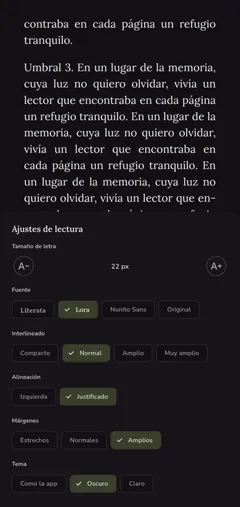
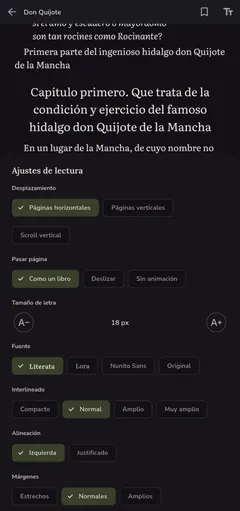
feat(inicio): capturas nuevas del g31 en tema claro y oscuro
- Seis capturas tomadas por adb en Silente 0.1.0 (moto g31), en los
  dos temas, con libros de Gutenberg y una reflexión de ejemplo.
- Cada captura se sirve con <picture>: la variante oscura con
  prefers-color-scheme: dark.
- make_assets.py lee src/capturas/ y permite regenerar solo una parte.
- Tests: presupuesto de peso por tema, variante oscura y srcset.
- docs/capturas.md registra cómo se tomaron y su revisión (LP-11).

diff --git a/src/templates/index.html b/src/templates/index.html
@@ -7,7 +7,7 @@
       {{ play }}
     </div>
     <div class="phone">
-      {{ shot:lector-pagina|Una página de Don Quijote abierta en el Lector de Silente|eager }}
+      {{ shot:lector-pagina|El comienzo del capítulo primero de Don Quijote abierto en el Lector de Silente|eager }}
     </div>
   </div>
 </section>
@@ -23,7 +23,7 @@
           <p>Añade tus libros EPUB y encuéntralos siempre donde los dejaste. «Continuar leyendo» te lleva a la página exacta.</p>
         </div>
         <div class="phone">
-          {{ shot:biblioteca-inicio|La Biblioteca de Silente, con «Continuar leyendo» arriba y tus libros debajo }}
+          {{ shot:biblioteca-inicio|La Biblioteca de Silente, con Don Quijote en «Continuar leyendo» y cuatro libros debajo }}
         </div>
       </li>
       <li class="feature">
@@ -32,7 +32,7 @@
           <p>Una página limpia que desaparece mientras lees. Elige fuente, tamaño, márgenes y cómo pasar página: como un libro, deslizando o en scroll.</p>
         </div>
         <div class="phone">
-          {{ shot:lector-ajustes-oscuro|Los ajustes de lectura abiertos sobre una página, con el tamaño de letra, la fuente, el interlineado, la alineación, los márgenes y el tema }}
+          {{ shot:lector-ajustes|Los ajustes de lectura abiertos sobre una página de Don Quijote: desplazamiento, cómo pasar página, tamaño de letra, fuente, interlineado, alineación y márgenes }}
         </div>
       </li>
       <li class="feature">
@@ -41,7 +41,7 @@
           <p>Escribe una reflexión desde cualquier página. Tu Diario guarda el libro y el capítulo en que la escribiste.</p>
         </div>
         <div class="phone">
-          {{ shot:diario-editor|Una reflexión nueva sobre Don Quijote, con el capítulo en el que se escribe }}
+          {{ shot:diario-editor|Una reflexión nueva sobre Don Quijote, escrita en el capítulo primero }}
         </div>
       </li>
       <li class="feature">
@@ -88,7 +88,7 @@
       <p>Silente trae su propio libro: una guía corta que se lee con el mismo Lector y te enseña a usarlo mientras lo recorres.</p>
     </div>
     <div class="phone">
-      {{ shot:libro-de-silente-portada|La portada de «El libro de Silente», con el lema «Tu espacio de lectura» }}
+      {{ shot:libro-de-silente-portada|La portada de «El libro de Silente», con el logo y el lema «Tu espacio de lectura» }}
     </div>
   </div>
 </section>

diff --git a/src/css/site.css b/src/css/site.css
@@ -276,6 +276,10 @@ main > .alt {
   overflow: hidden;
 }
 
+.phone picture {
+  display: block;
+}
+
 .phone img {
   width: 100%;
   border-radius: 1.4rem;

diff --git a/tools/make_assets.py b/tools/make_assets.py
@@ -5,13 +5,18 @@ Run it by hand when a source changes and commit the result; the Docker build
 only needs the standard library and `markdown`.
 
     pip install -r requirements-dev.txt
-    python3 tools/make_assets.py
+    python3 tools/make_assets.py                 # everything
+    python3 tools/make_assets.py shots og        # only some parts
+
+Parts: fonts, shots, favicons, og. Fonts and PNGs are not byte-for-byte
+reproducible, so regenerate only what changed.
 
 Needs ImageMagick 7 with librsvg (`magick`) for the favicons.
 
 Outputs:
 - fonts/*.woff2: Lora and Nunito Sans (roman and italic), Latin subset;
-- src/img/<shot>-{240,432}.webp: the screenshots of spec §5;
+- src/img/<shot>-<theme>-{240,432}.webp: the screenshots of spec §5, in the
+  light (claro) and dark (oscuro) themes, from src/capturas/<theme>/*.jpg;
 - brand/favicon-32.png, brand/apple-touch-icon.png, brand/favicon.ico;
 - src/img/og.png: Open Graph image, 1200 × 630.
 """
@@ -27,7 +32,7 @@ from PIL import Image, ImageDraw, ImageFont
 
 ROOT = Path(__file__).resolve().parents[1]
 FONTS = ROOT / "fonts"
-SHOTS = ROOT / "docs" / "referencias" / "capturas"
+SHOTS = ROOT / "src" / "capturas"
 IMG = ROOT / "src" / "img"
 BRAND = ROOT / "brand"
 
@@ -43,10 +48,11 @@ FONT_FILES = {
     "NunitoSans-Variable.ttf": "nunito-sans.woff2",
     "NunitoSans-Italic-Variable.ttf": "nunito-sans-italic.woff2",
 }
+SHOT_THEMES = ["claro", "oscuro"]
 SHOT_NAMES = [
     "lector-pagina",
     "biblioteca-inicio",
-    "lector-ajustes-oscuro",
+    "lector-ajustes",
     "diario-editor",
     "ajustes-exportar",
     "libro-de-silente-portada",
@@ -80,13 +86,14 @@ def make_fonts() -> None:
 
 def make_shots() -> None:
     IMG.mkdir(parents=True, exist_ok=True)
-    for name in SHOT_NAMES:
-        with Image.open(SHOTS / f"{name}.jpg") as shot:
-            for width in SHOT_WIDTHS:
-                height = round(shot.height * width / shot.width)
-                out = IMG / f"{name}-{width}.webp"
-                shot.resize((width, height), Image.LANCZOS).save(out, "WEBP", quality=80, method=6)
-                print(f"src/img/{out.name}: {width}×{height}, {out.stat().st_size // 1024} KB")
+    for theme in SHOT_THEMES:
+        for name in SHOT_NAMES:
+            with Image.open(SHOTS / theme / f"{name}.jpg") as shot:
+                for width in SHOT_WIDTHS:
+                    height = round(shot.height * width / shot.width)
+                    out = IMG / f"{name}-{theme}-{width}.webp"
+                    shot.resize((width, height), Image.LANCZOS).save(out, "WEBP", quality=80, method=6)
+                    print(f"src/img/{out.name}: {width}×{height}, {out.stat().st_size // 1024} KB")
 
 
 def render_mark(size: int, out: Path, background: str = "none", padding: int = 0) -> None:
@@ -136,11 +143,17 @@ def make_og() -> None:
     print(f"src/img/og.png: {out.stat().st_size // 1024} KB")
 
 
+PARTS = {"fonts": make_fonts, "shots": make_shots, "favicons": make_favicons, "og": make_og}
+
+
 def main() -> int:
-    make_fonts()
-    make_shots()
-    make_favicons()
-    make_og()
+    parts = sys.argv[1:] or list(PARTS)
+    unknown = [part for part in parts if part not in PARTS]
+    if unknown:
+        print(f"Partes desconocidas: {', '.join(unknown)}. Válidas: {', '.join(PARTS)}")
+        return 1
+    for part in parts:
+        PARTS[part]()
     return 0
 
 

diff --git a/tests/test_site.py b/tests/test_site.py
@@ -241,6 +241,26 @@ class SiteTest(unittest.TestCase):
         for svg in self.pages["index.html"].find("svg"):
             self.assertEqual(svg.get("aria-hidden"), "true")
 
+    def test_screenshots_have_a_dark_variant(self):
+        page = self.pages["index.html"]
+        sources = page.find("source")
+        self.assertEqual(len(sources), len(page.find("img")))
+        for source in sources:
+            with self.subTest(srcset=source["srcset"][:40]):
+                self.assertEqual(source["media"], "(prefers-color-scheme: dark)")
+                self.assertIn("-oscuro-", source["srcset"])
+                self.assertTrue(source.get("width") and source.get("height"))
+        for image in page.find("img"):
+            self.assertIn("-claro-", image["srcset"])
+
+    def test_srcset_files_exist(self):
+        for name, page in self.pages.items():
+            for tag, attrs in page.tags:
+                for candidate in filter(None, attrs.get("srcset", "").split(",")):
+                    url = candidate.split()[0]
+                    with self.subTest(page=name, url=url):
+                        self.assertTrue((self.dist / url.lstrip("/")).is_file())
+
     def test_only_the_hero_image_loads_eagerly(self):
         images = self.pages["index.html"].find("img")
         self.assertEqual(images[0].get("fetchpriority"), "high")
@@ -282,9 +302,13 @@ class SiteTest(unittest.TestCase):
         resources |= set(re.findall(r"(/assets/[^\s,\"]+) \d+w", source))  # srcset
         resources |= set(re.findall(r'url\("(/assets/[^"]+)"', css.read_text()))
         resources = {r for r in resources if "/og." not in r}  # only for link previews
-        total = len(source.encode()) + sum((self.dist / r.lstrip("/")).stat().st_size for r in resources)
-        # Everything, as if the browser downloaded both sizes of every image.
-        self.assertLessEqual(total, 500 * 1024)
+        # A browser loads the screenshots of one theme only. Per theme, count
+        # everything, as if it downloaded both sizes of every image.
+        for theme, other in (("claro", "oscuro"), ("oscuro", "claro")):
+            loaded = {r for r in resources if f"-{other}-" not in r}
+            total = len(source.encode()) + sum((self.dist / r.lstrip("/")).stat().st_size for r in loaded)
+            with self.subTest(theme=theme, kb=total // 1024):
+                self.assertLessEqual(total, 500 * 1024)
         # Requests: the page plus one size per image and each other resource.
         images = len(self.pages["index.html"].find("img"))
         others = {r for r in resources if not r.endswith(".webp")}

diff --git a/build.py b/build.py
@@ -11,7 +11,8 @@ committed.
 Templates use `{{ name }}` placeholders:
 - `{{ asset:path }}` → URL of a hashed asset (`/assets/name.<hash>.ext`);
 - `{{ absolute_asset:path }}` → the same, with the site origin;
-- `{{ shot:name|alt[|eager] }}` → a screenshot `<img>` with srcset and size;
+- `{{ shot:name|alt[|eager] }}` → a screenshot `<picture>`: the light one by
+  default and the dark one with `prefers-color-scheme: dark`;
 - anything else → a value of the page context (already safe HTML).
 A placeholder without a value fails the build.
 """
@@ -51,6 +52,7 @@ ASSETS = {
     "img/og.png": SRC / "img/og.png",
 }
 SHOT_WIDTHS = (240, 432)
+SHOT_THEMES = ("claro", "oscuro")
 # The phone frame is 240 px wide with a 10 px border.
 SHOT_SIZES = "220px"
 
@@ -141,17 +143,25 @@ class Site:
 
     def shot(self, spec: str) -> str:
         name, alt, *flags = spec.split("|")
-        widths = []
-        for width in SHOT_WIDTHS:
-            logical = f"img/{name}-{width}.webp"
-            widths.append((width, self.asset(logical), webp_size(SRC / logical)))
-        (_, src, (width, height)) = widths[0]
-        srcset = ", ".join(f"{url} {w}w" for w, url, _ in widths)
+        variants = {}
+        for theme in SHOT_THEMES:
+            widths = []
+            for width in SHOT_WIDTHS:
+                logical = f"img/{name}-{theme}-{width}.webp"
+                widths.append((width, self.asset(logical), webp_size(SRC / logical)))
+            variants[theme] = widths
+        sizes = {widths[0][2] for widths in variants.values()}
+        if len(sizes) != 1:
+            raise BuildError(f"{name}: las capturas clara y oscura tienen tamaños distintos")
+        (width, height) = sizes.pop()
+        srcset = {t: ", ".join(f"{url} {w}w" for w, url, _ in v) for t, v in variants.items()}
         loading = 'fetchpriority="high"' if flags == ["eager"] else 'loading="lazy"'
         return (
-            f'<img src="{src}" srcset="{srcset}" sizes="{SHOT_SIZES}" '
+            f'<picture><source media="(prefers-color-scheme: dark)" srcset="{srcset["oscuro"]}" '
+            f'sizes="{SHOT_SIZES}" width="{width}" height="{height}">'
+            f'<img src="{variants["claro"][0][1]}" srcset="{srcset["claro"]}" sizes="{SHOT_SIZES}" '
             f'width="{width}" height="{height}" alt="{html.escape(alt)}" '
-            f'{loading} decoding="async">'
+            f'{loading} decoding="async"></picture>'
         )
 
     # Templates

diff --git a/docs/capturas.md b/docs/capturas.md
@@ -1,0 +1,32 @@
+# Capturas de la web
+
+- **Estado:** ✅ Revisadas (LP-11). Tomadas el 2026-10-02.
+- **Relacionado:** spec §5 y §6.3; fuentes en [`src/capturas/`](../src/capturas/); conversión en [`tools/make_assets.py`](../tools/make_assets.py).
+
+## Cómo se tomaron
+
+| Dato | Valor |
+|---|---|
+| Dispositivo | moto g31, Android 12, por `adb` |
+| App | Silente 0.1.0 (`com.nordirwork.silente`) |
+| Temas | Claro y oscuro, con `cmd uimode night no/yes`; la app y el Lector en «Sistema» / «Como la app» |
+| Barra de estado | Recortada: los 100 px de arriba (su alto real en el g31) |
+| Botón flotante del menú de accesibilidad | Ocultado durante la sesión y restaurado al terminar |
+| Fuentes | `src/capturas/{claro,oscuro}/*.jpg`, 540 × 1150, sin metadatos |
+
+La web sirve cada captura en WebP de 240 y 432 px de ancho. Con `<picture>`, el tema oscuro del sistema elige la variante oscura. Para regenerar los WebP: `python3 tools/make_assets.py shots`.
+
+## Revisión (spec §6.3)
+
+| Captura | Qué muestra | Libros y textos | ✓ |
+|---|---|---|---|
+| `lector-pagina` | El comienzo del capítulo primero de *Don Quijote* en el Lector | Proyecto Gutenberg n.º 2000, dominio público | ✅ |
+| `biblioteca-inicio` | «Continuar leyendo» con *Don Quijote* y los cuatro libros en «Mis libros» | *Don Quijote* (Gutenberg 2000), *El sombrero de tres picos* (Gutenberg 29506), *Lazarillo de Tormes* (Gutenberg 320) y *El libro de Silente*. Las portadas son las que genera Gutenberg | ✅ |
+| `lector-ajustes` | El panel «Ajustes de lectura» sobre *Don Quijote*: desplazamiento, pasar página, tamaño, fuente, interlineado, alineación y márgenes | *Don Quijote* | ✅ |
+| `diario-editor` | «Nueva reflexión», escrita en el capítulo primero de *Don Quijote*, sin teclado | Reflexión de ejemplo, escrita para la captura (sin tildes, por la limitación de `adb input text`) | ✅ |
+| `ajustes-exportar` | El diálogo «Exportar mis datos» sobre Ajustes, con los campos de contraseña vacíos | — | ✅ |
+| `libro-de-silente-portada` | La portada de *El libro de Silente*, con el logo y el lema | *El libro de Silente* (incluido en la app) | ✅ |
+
+En ninguna captura hay notificaciones, nombres, cuentas ni datos del teléfono. Tampoco hay reflexiones reales.
+
+Las capturas antiguas de `docs/referencias/capturas/` (copia del manual de la app) ya no se usan. Tenían un texto de prueba en el Diario, un libro de prueba en los ajustes de lectura y un libro de licencia no verificada en la Biblioteca.

diff --git a/README.md b/README.md
@@ -27,7 +27,8 @@ Los recursos derivados (fuentes WOFF2, capturas en WebP, favicons e imagen Open 
 
 ```sh
 .venv/bin/pip install -r requirements-dev.txt
-.venv/bin/python tools/make_assets.py
+.venv/bin/python tools/make_assets.py          # todo
+.venv/bin/python tools/make_assets.py shots    # solo las capturas (también fonts, favicons, og)
 ```
 
 Para publicar la insignia de Google Play cuando la app esté en la tienda, se rellena `PLAY_URL` en `build.py` y se añade la insignia oficial en `src/img/google-play-badge.svg`.
@@ -39,7 +40,8 @@ Para publicar la insignia de Google Play cuando la app esté en la tienda, se re
 | `build.py` | Generador: inicio, `/privacidad`, `/terminos`, 404, `/salud`, `robots.txt` y `sitemap.xml`. Recursos con *hash* en el nombre, en `/assets/` |
 | `src/templates/` | Plantillas HTML (`base`, `index`, `legal`, `404`) con marcadores `{{ … }}` |
 | `src/css/site.css` | Estilos con los colores como variables CSS; tema claro y oscuro con `prefers-color-scheme` |
-| `src/img/` | Capturas en WebP (240 y 432 px) e imagen Open Graph |
+| `src/capturas/` | Capturas originales del g31, en tema claro y oscuro ([revisión](docs/capturas.md)) |
+| `src/img/` | Capturas en WebP (240 y 432 px, de cada tema) e imagen Open Graph |
 | `tests/test_site.py` | Comprobaciones del sitio generado (ver abajo) |
 | `tools/` | `make_assets.py` y las guardias `check_legal_placeholders.py` y `check_brand_name.py`, adaptadas de la app |
 | `.github/workflows/ci.yml` | Build, tests, guardias y gitleaks |
@@ -66,6 +68,7 @@ Las cabeceras HTTP (CSP, sin `Set-Cookie`, 404 real) se comprueban cuando exista
 |---|---|
 | [docs/spec.md](docs/spec.md) | Especificación completa: contenido, requisitos, despliegue y criterios de aceptación |
 | [CHANGELOG.md](CHANGELOG.md) | Cambios de cada versión de la web |
+| [docs/capturas.md](docs/capturas.md) | Cómo se tomaron las capturas y su revisión (LP-11) |
 | [CLAUDE.md](CLAUDE.md) | Contexto del proyecto, decisiones, principios y valores del servidor |
 | [legal/](legal/) | Política de privacidad y términos de uso (copia exacta de la app) |
 | [brand/](brand/) | Logo de Silente (SVG, color y monocromo) |

diff --git a/CLAUDE.md b/CLAUDE.md
@@ -26,7 +26,7 @@ Se publica en **https://silente.nordirwork.com**, dockerizada, en el servidor do
 ## Primeros pasos para la sesión que empiece el proyecto
 
 1. Leer `docs/spec.md` y este archivo.
-2. ✅ Repositorio creado. Pendiente de LP-11: la captura `diario-editor.jpg` tiene un texto de prueba descuidado («PruebaEl canonigo…»); conviene repetirla con una reflexión de ejemplo bien escrita antes de usarla en la web.
+2. ✅ Repositorio creado. ✅ LP-11: capturas nuevas en claro y oscuro, tomadas en el g31 ([docs/capturas.md](docs/capturas.md)); las de `docs/referencias/capturas/` ya no se usan.
 3. Seguir el plan del §11 del spec:
    - generador `build.py` + plantillas + CSS → `dist/`;
    - `nginx.conf` + `Dockerfile` multi-etapa (Python → `nginxinc/nginx-unprivileged:<versión fija>-alpine`, puerto 8080);

diff --git a/CHANGELOG.md b/CHANGELOG.md
@@ -12,4 +12,5 @@ Cambios visibles de la web de Silente. Formato basado en [Keep a Changelog](http
 - Política de privacidad (`/privacidad`) y términos de uso (`/terminos`), generados sin cambios desde `legal/`.
 - Página 404 propia, `/salud`, `robots.txt` y `sitemap.xml`.
 - Tema claro y oscuro según el sistema, sin JavaScript.
-- Fuentes Lora y Nunito Sans servidas desde la propia web, y capturas en WebP.
+- Fuentes Lora y Nunito Sans servidas desde la propia web.
+- Capturas de la app tomadas para la web en tema claro y oscuro: cada visitante ve las de su tema.
